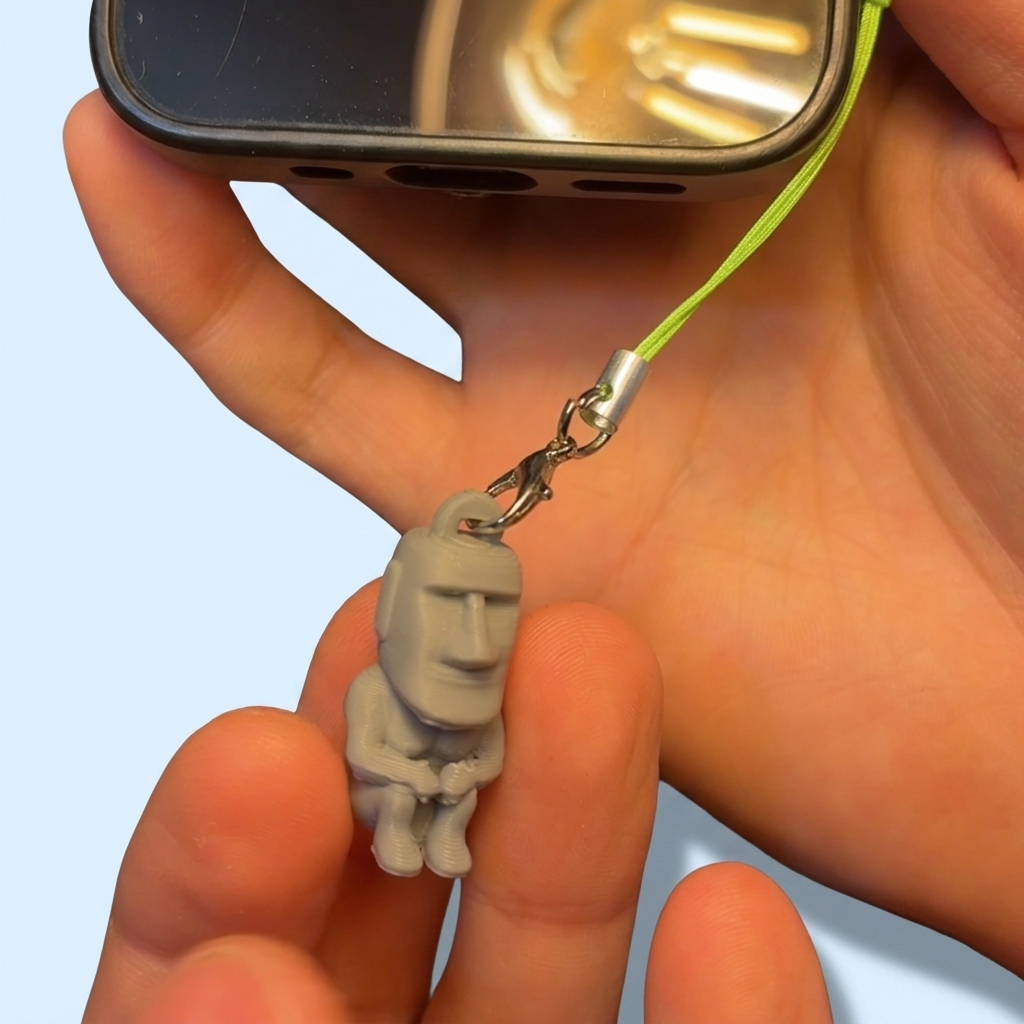
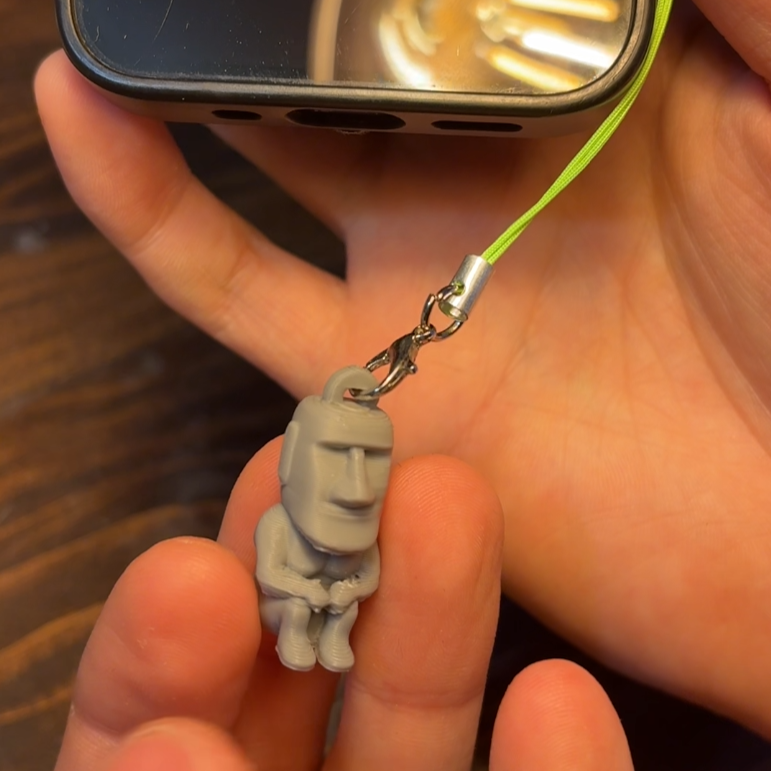
feat: re-register updated 1_studio.png and refresh cache busters

diff --git a/catalog.html b/catalog.html
@@ -437,7 +437,7 @@
     }
   </style>
 
-  <script src="data.js?v=20260517_0042"></script>
+  <script src="data.js?v=20260517_1133"></script>
   <script>
     const DEV_STATUSES = [
       { label: "💭 発掘中", desc: "アイデア・構想段階" },

diff --git a/index.html b/index.html
@@ -414,7 +414,7 @@
                     ">
                         ブース位置を確認🗺️
                     </button>
-                    <button onclick="event.stopPropagation(); location.href='catalog.html?v=20260517_0038'" style="
+                    <button onclick="event.stopPropagation(); location.href='catalog.html?v=20260517_1133'" style="
                         background: rgba(0,210,255,0.15); border: 2px solid rgba(0,210,255,0.6); color: #00d2ff; 
                         padding: clamp(6px, 1.5vw, 8px) clamp(12px, 3vw, 18px); border-radius: 20px; 
                         font-size: clamp(12px, 3.5vw, 16px); font-weight: bold;

diff --git a/main.js b/main.js
@@ -375,7 +375,7 @@ function animate() {
                 ">
                     ブース位置を確認🗺️
                 </button>
-                <button onclick="event.stopPropagation(); location.href='catalog.html?v=20260517_0038'" style="
+                <button onclick="event.stopPropagation(); location.href='catalog.html?v=20260517_1133'" style="
                     background: rgba(0,210,255,0.15); border: 2px solid rgba(0,210,255,0.6); color: #00d2ff; 
                     padding: clamp(6px, 1.5vw, 8px) clamp(12px, 3vw, 18px); border-radius: 20px; 
                     font-size: clamp(12px, 3.5vw, 16px); font-weight: bold;

diff --git a/pos.html b/pos.html
@@ -522,7 +522,7 @@
     </section>
   </div>
 
-  <script src="data.js?v=20260517_0042"></script>
+  <script src="data.js?v=20260517_1133"></script>
   <script type="module">
     import { initializeApp } from "https://www.gstatic.com/firebasejs/10.8.1/firebase-app.js";
     import { getFirestore, doc, onSnapshot, setDoc, updateDoc, arrayUnion, getDoc } from "https://www.gstatic.com/firebasejs/10.8.1/firebase-firestore.js";